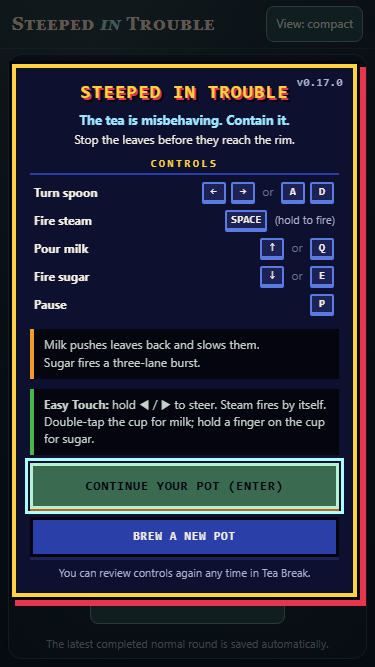
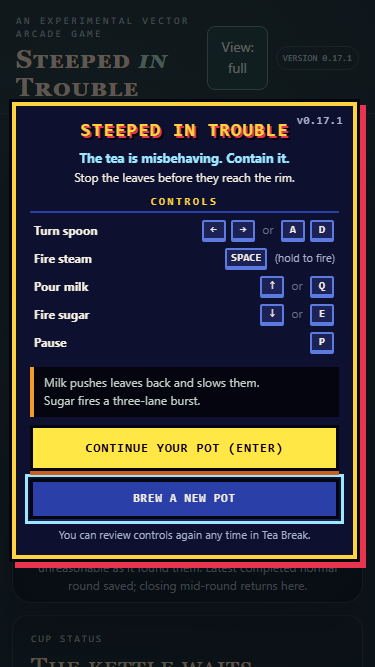
fix: preserve arcade button palettes and prepare v0.17.1

diff --git a/tests/browser/arcadeButtons.spec.js b/tests/browser/arcadeButtons.spec.js
@@ -1,0 +1,69 @@
+import { expect, openGame, test } from './fixtures.js';
+import { checkpointRound } from './collection.js';
+
+for (const width of [1280, 375]) {
+  test(`arcade buttons retain their palette through hover, focus and press at ${width}px`, async ({ page, problems }, testInfo) => {
+    await page.setViewportSize({ width, height: width === 375 ? 667 : 720 });
+    await openGame(page, '', { onboarding: true });
+
+    const checkStates = async (selector, background, border) => {
+      const button = page.locator(selector);
+      await page.mouse.move(0, 0);
+      await expect(button).toHaveCSS('background-color', background);
+      await expect(button).toHaveCSS('border-top-color', border);
+      await button.hover();
+      await expect(button).toHaveCSS('background-color', background);
+      await expect(button).toHaveCSS('border-top-color', border);
+      await expect(button).toHaveCSS('filter', 'brightness(1.1)');
+      // Tab away and back gives actual keyboard focus, including after hover.
+      await button.focus();
+      await page.keyboard.press('Tab');
+      await page.keyboard.press('Shift+Tab');
+      await expect(button).toBeFocused();
+      await expect(button).toHaveCSS('outline-style', 'solid');
+      // Compare with a 3px reference: headed Windows can quantize CSS borders
+      // using host scaling even when the emulated devicePixelRatio is 1.
+      const outlineWidth = await page.evaluate(() => {
+        const reference = document.createElement('div');
+        reference.style.outline = '3px solid red';
+        document.body.append(reference);
+        const width = getComputedStyle(reference).outlineWidth;
+        reference.remove();
+        return width;
+      });
+      await expect(button).toHaveCSS('outline-width', outlineWidth);
+      await expect(button).toHaveCSS('outline-color', selector === '#titleContinueBtn' ? 'rgb(244, 239, 226)' : 'rgb(155, 231, 255)');
+      await expect(button).toHaveCSS('background-color', background);
+      await button.hover();
+      await page.mouse.down();
+      await expect(button).toHaveCSS('background-color', background);
+      await expect(button).toHaveCSS('box-shadow', 'none');
+      await expect(button).toHaveCSS('transform', 'matrix(1, 0, 0, 1, 0, 3)');
+      // Release outside the button so checking its press does not activate it.
+      await page.mouse.move(0, 0);
+      await page.mouse.up();
+    };
+
+    await checkStates('#titleContinueBtn', 'rgb(14, 16, 48)', 'rgb(255, 210, 63)');
+    await page.locator('#titleContinueBtn').hover();
+    await page.screenshot({ path: testInfo.outputPath('title-hover-focus.png'), animations: 'disabled' });
+    await page.locator('#titleContinueBtn').click();
+    await checkStates('#overlayPrimaryBtn', 'rgb(255, 210, 63)', 'rgb(5, 5, 16)');
+    await page.locator('#overlayPrimaryBtn').click();
+    await checkpointRound(page);
+    await page.reload();
+    await expect(page.locator('#titleContinueBtn')).toBeEnabled();
+    await page.locator('#titleContinueBtn').click();
+    await expect(page.locator('#overlayPrimaryBtn')).toContainText('CONTINUE YOUR POT');
+    await checkStates('#overlayPrimaryBtn', 'rgb(255, 210, 63)', 'rgb(5, 5, 16)');
+    await checkStates('#overlayNewPotBtn', 'rgb(42, 63, 168)', 'rgb(5, 5, 16)');
+    await page.locator('#overlayPrimaryBtn').hover();
+    await page.screenshot({ path: testInfo.outputPath('instructions-hover-focus.png'), animations: 'disabled' });
+    await page.locator('#overlayPrimaryBtn').click();
+    await page.locator('#menuBtn').click();
+    await page.locator('#closeBreak').hover();
+    await expect(page.locator('#closeBreak')).toHaveCSS('background-color', 'rgb(53, 97, 74)');
+    await expect(page.locator('#closeBreak')).toHaveCSS('border-top-color', 'rgb(165, 218, 187)');
+    expect(problems).toEqual([]);
+  });
+}

diff --git a/tests/browser/titleLifecycle.spec.js b/tests/browser/titleLifecycle.spec.js
@@ -18,6 +18,8 @@ test('production title waits for an explicit gesture and each Enter advances one
   await expect(page.locator('#titleContinueBtn')).toBeEnabled();
   await expect(title).toBeVisible();
   await expect(instructions).toBeHidden();
+  await page.keyboard.press('Escape');
+  await expect(title).toBeVisible();
   await page.waitForTimeout(3200);
   await expect(title).toBeVisible();
   await page.keyboard.press('Tab');
@@ -32,6 +34,48 @@ test('production title waits for an explicit gesture and each Enter advances one
   await page.keyboard.press('Enter');
   await expect(instructions).toBeHidden();
   await expect(page.locator('#hudStatus')).toHaveText('DEFEND THE RIM');
+  expect(problems).toEqual([]);
+});
+
+test('complete welcome and Tea Break flow uses browser keyboard and pointer input', async ({ page, problems }) => {
+  await openGame(page, '&seed=42&view=full', { onboarding: true });
+  await expect(page.locator('#titleContinueBtn')).toBeEnabled();
+  await expect(page.locator('#arcadeSplash')).toBeVisible();
+  await page.keyboard.press('Enter');
+  await expect(page.locator('#instructionOverlay')).toBeVisible();
+  await page.keyboard.press('Enter');
+  await expect(page.locator('body')).toHaveAttribute('data-phase', 'playing');
+  const state = () => page.evaluate(() => {
+    const s = window.__TEACUP__.game.state;
+    return { angle: s.angle, shots: s.shots.filter((shot) => !shot.sugar).length, milk: s.milkLeft, sugar: s.sugarLeft };
+  });
+  for (const key of ['ArrowLeft', 'ArrowRight', 'a', 'd']) {
+    const before = await state();
+    await page.keyboard.down(key);
+    await expect.poll(async () => (await state()).angle).not.toBe(before.angle);
+    await page.keyboard.up(key);
+  }
+  await page.keyboard.press('Space');
+  await expect.poll(async () => (await state()).shots).toBeGreaterThan(0);
+  const supplies = await state();
+  await page.keyboard.press('m');
+  await expect.poll(async () => (await state()).milk).toBe(supplies.milk - 1);
+  await page.keyboard.press('s');
+  await expect.poll(async () => (await state()).sugar).toBe(supplies.sugar - 1);
+  await expect.poll(async () => (await state()).shots).toBe(0);
+  await page.locator('#menuBtn').click();
+  await page.locator('#breakControlsBtn').click();
+  await expect(page.locator('#instructionOverlay')).toBeVisible();
+  await page.keyboard.press('Enter');
+  await expect(page.locator('#teaBreak')).toBeVisible();
+  await expect(page.locator('body')).toHaveAttribute('data-phase', 'paused');
+  await page.locator('#closeBreak').click();
+  await expect(page.locator('#game')).toBeFocused();
+  // The earlier steam expired, so a new shot demonstrates fresh input.
+  await page.keyboard.press('Space');
+  await expect.poll(async () => (await state()).shots).toBeGreaterThan(0);
+  await expect(page.locator('#teaBreak')).toBeHidden();
+  await expect(page.locator('body')).toHaveAttribute('data-phase', 'playing');
   expect(problems).toEqual([]);
 });
 

diff --git a/styles/main.css b/styles/main.css
@@ -1003,7 +1003,8 @@ body[data-view="full"] .panel .collection-entry button { flex: 1 1 100%; font-si
 
 .arcade-splash[hidden] { display: none; }
 
-.splash-continue {
+/* Match the global button:hover specificity so arcade palettes win. */
+button.splash-continue {
   max-width: 92vw;
   padding: 12px 16px;
   border: 2px solid #ffd23f;
@@ -1015,6 +1016,8 @@ body[data-view="full"] .panel .collection-entry button { flex: 1 1 100%; font-si
   box-shadow: 4px 4px 0 #2a3fa8;
 }
 .splash-continue:focus-visible { outline: 3px solid #f4efe2; outline-offset: 4px; }
+.splash-continue:hover { filter: brightness(1.1); }
+.splash-continue:active { transform: translateY(3px); box-shadow: none; }
 
 .splash-content {
   display: flex;
@@ -1278,7 +1281,7 @@ body:has(#instructionOverlay[open]) {
   cursor: pointer;
 }
 
-.arcade-start-btn {
+button.arcade-start-btn {
   min-height: 46px;
   padding: 10px 16px;
   font-size: 14px;
@@ -1288,7 +1291,7 @@ body:has(#instructionOverlay[open]) {
   box-shadow: 0 4px 0 #b8561a;
 }
 
-.arcade-secondary-btn {
+button.arcade-secondary-btn {
   min-height: 40px;
   padding: 8px 14px;
   font-size: 12px;
@@ -1368,7 +1371,7 @@ body:has(#instructionOverlay[open]) {
     padding: 0 4px;
     font-size: 11px;
   }
-  .arcade-start-btn { font-size: 13px; }
+  button.arcade-start-btn { font-size: 13px; }
 }
 
 /* Short windows (small laptops, landscape phones): tighten everything, hide nothing. */
@@ -1396,12 +1399,12 @@ body:has(#instructionOverlay[open]) {
     padding: 4px 8px;
     font-size: 11px;
   }
-  .arcade-start-btn {
+  button.arcade-start-btn {
     min-height: 40px;
     padding: 6px 12px;
     font-size: 13px;
   }
-  .arcade-secondary-btn {
+  button.arcade-secondary-btn {
     min-height: 36px;
     padding: 5px 12px;
   }

diff --git a/tests/browser/mobile-onboarding.spec.js b/tests/browser/mobile-onboarding.spec.js
@@ -1,12 +1,14 @@
 import { expect, openGame, test } from './fixtures.js';
 
-// The instruction overlay on a real touch screen (Pixel 7): it explains the
+// The instruction overlay with Pixel 7 touch emulation: it explains the
 // touch layout actually in use, fits the phone, and starts with a tap.
 
 const openTitle = async (page, query = '') => {
   await openGame(page, query, { onboarding: true });
   if (!/[&](noOverlay|arcade|day|cup|fortune)/.test(query)) {
+    await expect(page.locator('#titleContinueBtn')).toHaveCSS('background-color', 'rgb(14, 16, 48)');
     await page.locator('#titleContinueBtn').tap();
+    await expect(page.locator('#overlayPrimaryBtn')).toHaveCSS('background-color', 'rgb(255, 210, 63)');
   }
 };
 

diff --git a/tests/browser/arcadeTitleOnboarding.spec.js b/tests/browser/arcadeTitleOnboarding.spec.js
@@ -1,7 +1,7 @@
 import { expect, openGame, test } from './fixtures.js';
 import { checkpointRound } from './collection.js';
 
-const VERSION = '0.17.0';
+const VERSION = '0.17.1';
 
 /** The first screen a visitor sees: the title, then the instruction overlay. */
 const openTitle = async (page, query = '') => {

diff --git a/CHANGELOG.md b/CHANGELOG.md
@@ -5,6 +5,17 @@ All notable changes to this project are documented here. The project uses
 
 ## [Unreleased]
 
+## [0.17.1] - 2026-11-01 — Arcade Welcome
+
+- Interactive 80s arcade title screen: an explicit click, tap, or fresh Enter
+  opens the instruction overlay introduced after v0.17.0, before gameplay.
+- Improved keyboard input isolation across the title, instructions and dialogs;
+  held inputs must be released before they can affect gameplay.
+- Returning from Tea Break restores cup focus, so Space fires steam immediately
+  without clicking the canvas; deliberate Tab navigation retains button activation.
+- Consistent arcade button palettes on hover, with distinct keyboard focus and
+  pressed states. Gameplay mechanics and saved-game schemas are unchanged.
+
 ## [0.17.0] - 2026-10-30 — The Cup Remembers
 
 *The leaves remember what you did. The porcelain remembers what happened.*

diff --git a/docs/releases/v0.17.1.md b/docs/releases/v0.17.1.md
@@ -1,0 +1,15 @@
+# v0.17.1 — Arcade Welcome
+
+The spoon now has a proper entrance. An interactive 80s arcade title leads
+into a controls screen before gameplay, while improved focus handling makes
+returning from Tea Break smoother. Gameplay mechanics remain unchanged.
+
+- Click, tap, or press Enter to leave the title, then start or continue your
+  pot from the instructions. Holding Enter cannot skip both screens.
+- Returning from Tea Break restores keyboard gameplay immediately, with held
+  inputs isolated across dialogs and deliberate button navigation preserved.
+- Arcade buttons retain their yellow, blue and dark title palettes on hover,
+  with clear keyboard focus and pressed feedback.
+
+Release description prepared for project-owner approval; no tag or GitHub
+Release has been created for v0.17.1.
